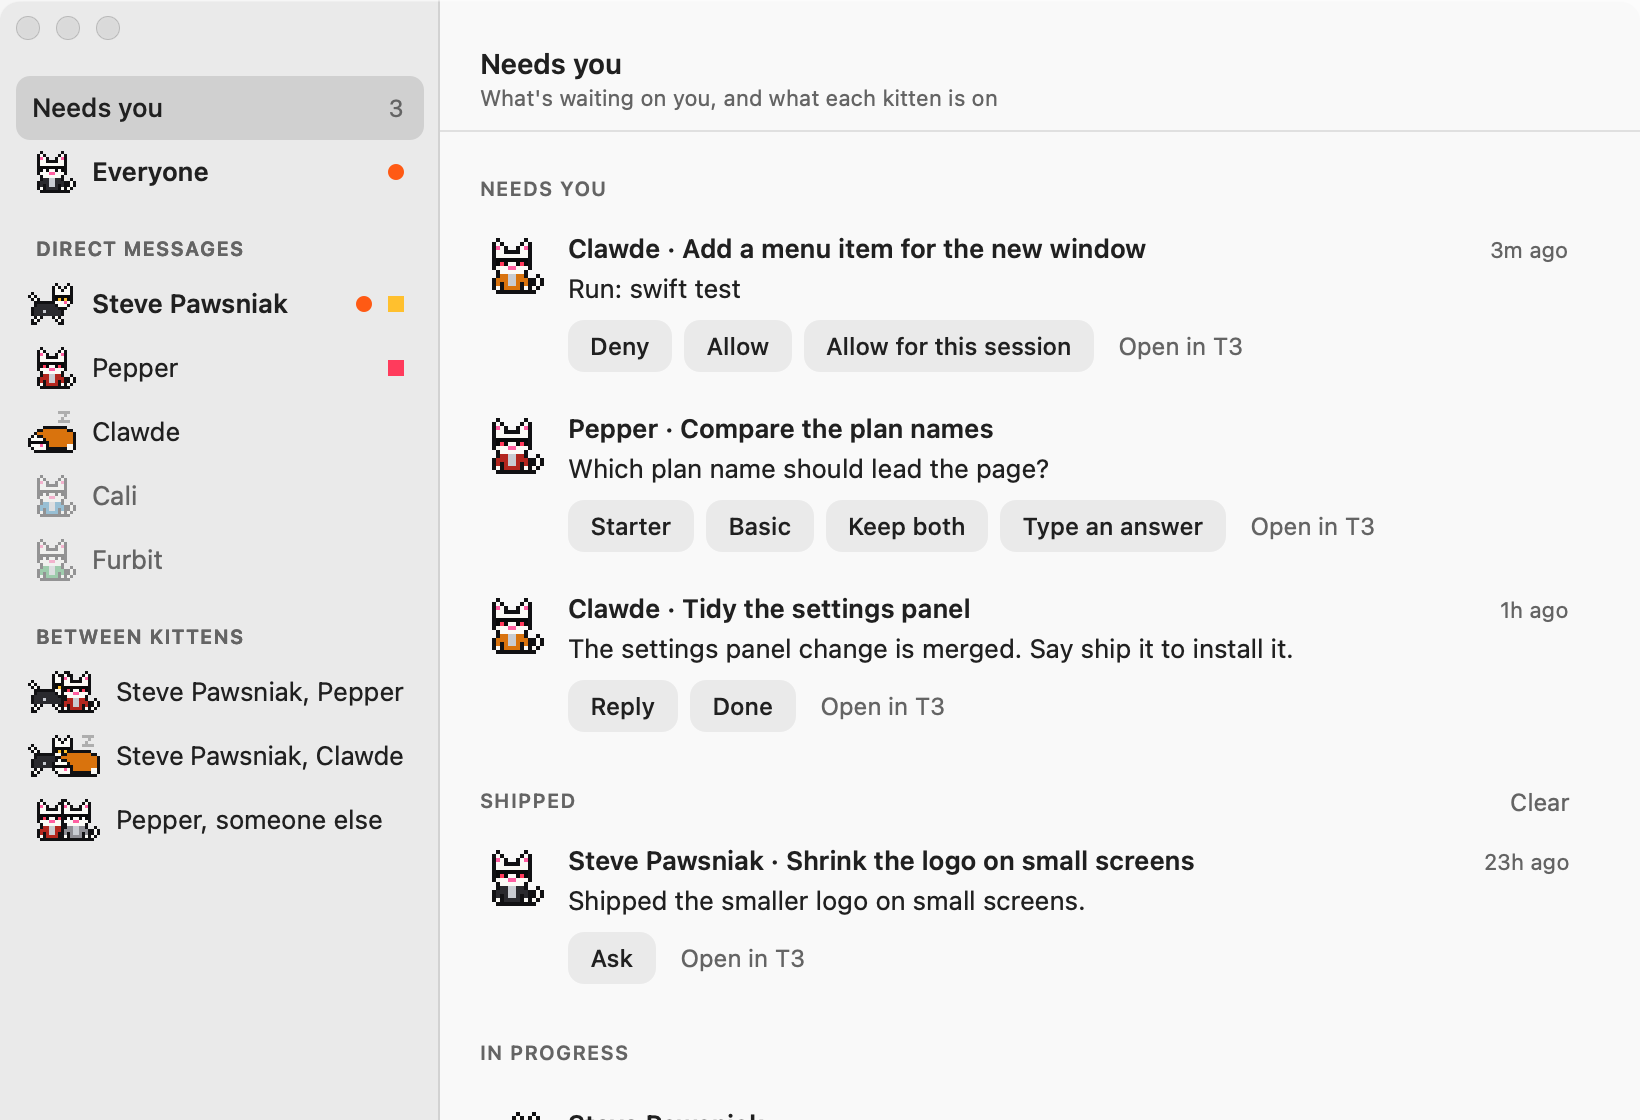
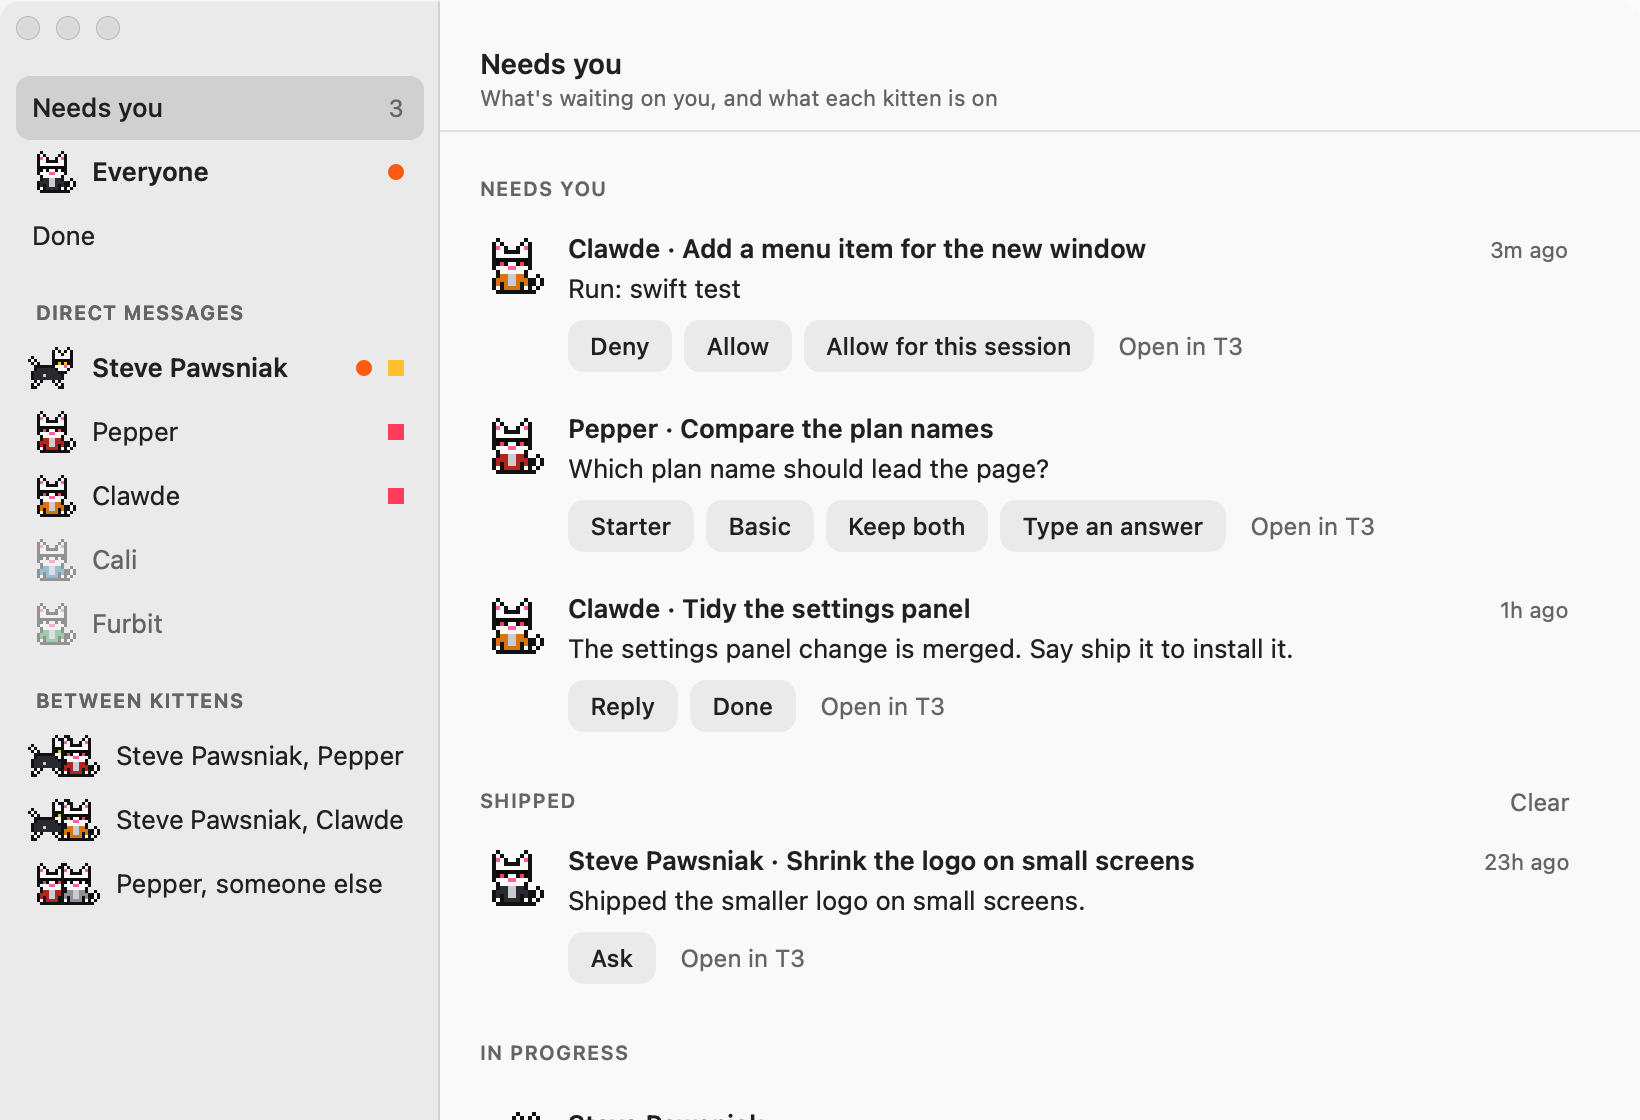
Move finished threads out of Needs you into a Done list you open when you want

diff --git a/Tests/ShadesTests/ChannelRowsTests.swift b/Tests/ShadesTests/ChannelRowsTests.swift
@@ -139,7 +139,7 @@ final class ChannelRowsTests: XCTestCase {
     }
 
     func testWhatEachKittenIsOnSitsUnderWhatNeedsYou() {
-        let built = book(threads: [thread("a", status: .running), thread("b")])
+        let built = book(threads: [thread("a", status: .running), thread("b", status: .failed)])
         let rows = ChannelRows.rows(.needsYou, in: built)
         XCTAssertEqual(Array(rows.prefix(2)), [.note("Nothing needs you."), .section("In progress", clearing: nil)])
         let progress = Array(rows.dropFirst(2))
@@ -154,7 +154,7 @@ final class ChannelRowsTests: XCTestCase {
 
     func testNeedsYouWhileReadingWithNothingYetSaysReading() {
         XCTAssertEqual(ChannelRows.rows(.needsYou, in: book(isReading: true)).last, .note("Reading their messages..."))
-        let known = ChannelRows.rows(.needsYou, in: book(threads: [thread("a")], isReading: true))
+        let known = ChannelRows.rows(.needsYou, in: book(threads: [thread("a", status: .running)], isReading: true))
         XCTAssertFalse(known.contains(.note("Reading their messages...")), "threads are known before any words are")
     }
 
@@ -166,6 +166,29 @@ final class ChannelRowsTests: XCTestCase {
 
     func testNeedsYouLeadsWithAnyTrouble() {
         XCTAssertEqual(ChannelRows.rows(.needsYou, in: book(threads: [thread("a")], cantReachT3: true)).first, .note("I can't reach T3 Code. Open it and I'll catch up."))
+    }
+
+    private func issueIDs(_ rows: [ChannelRow]) -> [String] {
+        rows.compactMap {
+            if case .issue(let thread) = $0 { return thread.id }
+            return nil
+        }
+    }
+
+    func testAFinishedThreadLeavesNeedsYouForDone() {
+        let built = book(threads: [thread("working", status: .running), thread("finished")])
+        XCTAssertEqual(issueIDs(ChannelRows.rows(.needsYou, in: built)), ["working"])
+        let done = ChannelRows.rows(.done, in: built)
+        XCTAssertEqual(issueIDs(done), ["finished"])
+        guard case .heading(let status) = done.first else { return XCTFail("\(done)") }
+        XCTAssertEqual(status.kitten, steve)
+        XCTAssertEqual(done.count, 2, "a kitten with nothing finished isn't listed")
+    }
+
+    func testDoneWithNothingInItSaysWhy() {
+        XCTAssertEqual(ChannelRows.rows(.done, in: book(threads: [thread("a", status: .running)])), [.note("Nothing's finished yet.")])
+        XCTAssertEqual(ChannelRows.rows(.done, in: book(isReading: true)), [.note("Reading their messages...")])
+        XCTAssertEqual(ChannelRows.rows(.done, in: book(threads: [thread("a")], cantReachT3: true)).first, .note("I can't reach T3 Code. Open it and I'll catch up."))
     }
 
     // MARK: - Messages
@@ -185,6 +208,7 @@ final class ChannelRowsTests: XCTestCase {
         let built = book(threads: [thread("a")], transcripts: ["a": [exchange("e")]])
         XCTAssertEqual(MessageTarget.standard(for: .channel(.everyone), in: built), .router)
         XCTAssertNil(MessageTarget.standard(for: .needsYou, in: built))
+        XCTAssertNil(MessageTarget.standard(for: .done, in: built))
         XCTAssertNil(MessageTarget.standard(for: .channel(.direct(cali)), in: built), "a kitten that isn't set up takes nothing")
         XCTAssertNil(MessageTarget.standard(for: .channel(ChannelID(.kitten(steve.id), .kitten(pepper.id))!), in: built), "what kittens say to each other is only read")
     }

diff --git a/Sources/Shades/App/ChannelBook.swift b/Sources/Shades/App/ChannelBook.swift
@@ -83,6 +83,8 @@ struct KittenIssues: Equatable {
     var kitten: Kitten
     /// Their titles are without the owner's "Name:" prefix.
     var threads: [AgentThread]
+    /// Every other thread of theirs, newest first, for when you go looking.
+    var done: [AgentThread] = []
 }
 
 /// Everything the Channels window shows, worked out from scratch each time, so nothing gets synced or merged.
@@ -188,8 +190,10 @@ struct ChannelBook: Equatable {
             .map { channel($0.key, $0.value) }
             .sorted { (latest($0), latestID($0)) > (latest($1), latestID($1)) }
         let issues = statuses.compactMap { status -> KittenIssues? in
-            let open = openThreads(of: status.kitten, among: kittens, in: threads)
-            return status.state == .notSetUp && open.isEmpty ? nil : KittenIssues(kitten: status.kitten, threads: open)
+            let mine = owned(by: status.kitten, among: kittens, in: threads)
+            let open = mine.filter(isOpen).sorted { (urgency($0), $1.updatedAt, $0.id) < (urgency($1), $0.updatedAt, $1.id) }
+            let done = mine.filter { !isOpen($0) }.sorted { ($1.updatedAt, $0.id) < ($0.updatedAt, $1.id) }
+            return status.state == .notSetUp && open.isEmpty ? nil : KittenIssues(kitten: status.kitten, threads: open, done: done)
         }
         var waiting = waiting
         for entry in waiting.reports {
@@ -298,17 +302,20 @@ struct ChannelBook: Equatable {
     private static func latest(_ channel: Channel) -> Date { channel.messages.last?.at ?? .distantPast }
     private static func latestID(_ channel: Channel) -> String { channel.messages.last?.id ?? "" }
 
-    /// Today an issue is an open thread. A finished one that isn't settled stays, because
-    /// that's a pull request waiting on "ship it". What needs you comes first, then what's working.
-    private static func openThreads(of kitten: Kitten, among kittens: [Kitten], in threads: [AgentThread]) -> [AgentThread] {
+    private static func owned(by kitten: Kitten, among kittens: [Kitten], in threads: [AgentThread]) -> [AgentThread] {
         threads
-            .filter { KittenBoard.owner(of: $0, among: kittens) == kitten && (!$0.isSettled || $0.status.isActive) }
+            .filter { KittenBoard.owner(of: $0, among: kittens) == kitten }
             .map { thread in
                 var thread = thread
                 thread.title = title(of: thread, owner: kitten)
                 return thread
             }
-            .sorted { (urgency($0), $1.updatedAt, $0.id) < (urgency($1), $0.updatedAt, $1.id) }
+    }
+
+    /// Today an issue is an open thread: still going, or stopped short of done and not settled yet. One that
+    /// finished goes to Done, the way a settled one does in T3, so it doesn't sit there for you to keep looking at.
+    private static func isOpen(_ thread: AgentThread) -> Bool {
+        thread.status.isActive || KittenBoard.needsYou(thread) || (!thread.isSettled && thread.status != .completed)
     }
 
     private static func urgency(_ thread: AgentThread) -> Int {

diff --git a/Tests/ShadesTests/ChannelBookTests.swift b/Tests/ShadesTests/ChannelBookTests.swift
@@ -263,14 +263,18 @@ final class ChannelBookTests: XCTestCase {
         XCTAssertNil(KittenBoard.owner(of: thread("t", project: "site"), among: [pepper, steve]))
     }
 
-    func testAnIssueIsAnOpenThread() throws {
+    func testAnIssueIsAnOpenThreadAndAFinishedOneIsDoneWhetherOrNotItsSettled() throws {
         let built = book(kittens: [steve], threads: [
-            thread("done-unsettled", status: .completed),
-            thread("done-settled", status: .completed, settled: true),
+            thread("done-unsettled", status: .completed, age: 1),
+            thread("done-settled", status: .completed, settled: true, age: 2),
+            thread("failed-unsettled", status: .failed),
+            thread("failed-settled", status: .failed, settled: true, age: 3),
             thread("working-settled", status: .running, settled: true),
             thread("someone-elses", project: "site", status: .running),
         ])
-        XCTAssertEqual(Set(try XCTUnwrap(built.issues.first).threads.map(\.id)), ["done-unsettled", "working-settled"])
+        let steves = try XCTUnwrap(built.issues.first)
+        XCTAssertEqual(Set(steves.threads.map(\.id)), ["failed-unsettled", "working-settled"])
+        XCTAssertEqual(steves.done.map(\.id), ["done-unsettled", "done-settled", "failed-settled"], "newest first")
         XCTAssertEqual(built.issueCount, 2)
     }
 
@@ -278,17 +282,17 @@ final class ChannelBookTests: XCTestCase {
         var approving = thread("approving", status: .running, age: 40)
         approving.pendingApprovals = [ApprovalRequest(id: "r", threadID: "approving", threadTitle: "Work", kind: .command, summary: "x", createdAt: at)]
         let built = book(kittens: [steve], threads: [
-            thread("old-done", age: 30),
-            thread("new-done", age: 1),
+            thread("old-stopped", status: .interrupted, age: 30),
+            thread("new-stopped", status: .interrupted, age: 1),
             thread("working", status: .running, age: 20),
             thread("asking", status: .waitingForAnswer, age: 50),
             approving,
         ])
-        XCTAssertEqual(try XCTUnwrap(built.issues.first).threads.map(\.id), ["approving", "asking", "working", "new-done", "old-done"])
+        XCTAssertEqual(try XCTUnwrap(built.issues.first).threads.map(\.id), ["approving", "asking", "working", "new-stopped", "old-stopped"])
     }
 
     func testIssuesCoverEveryKittenThatsSetUpWithTheirNameTakenOff() throws {
-        let built = book(kittens: [steve, pepper, cali], threads: [thread("t", project: "site", title: "Steve: Fix the site")])
+        let built = book(kittens: [steve, pepper, cali], threads: [thread("t", project: "site", title: "Steve: Fix the site", status: .running)])
         XCTAssertEqual(built.issues.map(\.kitten), [steve, pepper])
         XCTAssertEqual(built.issues[0].threads.map(\.title), ["Fix the site"])
         XCTAssertEqual(built.issues[1].threads, [])

diff --git a/Tests/ShadesTests/ChannelsWindowTests.swift b/Tests/ShadesTests/ChannelsWindowTests.swift
@@ -80,6 +80,16 @@ final class ChannelsWindowTests: XCTestCase {
         XCTAssertTrue(row.accessibilityPerformPress())
     }
 
+    func testAFinishedThreadIsOnlyShownWhenYouOpenDone() throws {
+        let view = view()
+        view.show(book())
+        let issues = { view.pane.shown.compactMap { row -> String? in if case .issue(let thread) = row { thread.id } else { nil } } }
+        XCTAssertEqual(issues(), [])
+        try XCTUnwrap(view.sidebar.row(for: .done)).press()
+        XCTAssertEqual(view.selection, .done)
+        XCTAssertEqual(issues(), ["t"])
+    }
+
     func testAnEmptyBetweenSectionIsntDrawnAndAPairGetsARowOnceTheyTalk() throws {
         XCTAssertFalse(ChannelSidebarItem.groups(in: book()).contains { $0.heading == CatWords.betweenKittens })
 
@@ -242,7 +252,7 @@ final class ChannelsWindowTests: XCTestCase {
         )
         let line = DevFlags.checkLine(built, threadsRead: 7, milliseconds: 9)
         XCTAssertFalse(line.contains(secret))
-        for expected in ["threads read: 7", "unreadable: 1", "DMs with messages: 1", "between channels: 1", "messages: 4", "asked by you: 1", "asked by a kitten: 0", "asked by someone else: 1", "replies with no ask: 0", "issues: 1", "milliseconds: 9"] {
+        for expected in ["threads read: 7", "unreadable: 1", "DMs with messages: 1", "between channels: 1", "messages: 4", "asked by you: 1", "asked by a kitten: 0", "asked by someone else: 1", "replies with no ask: 0", "issues: 1", "done: 0", "milliseconds: 9"] {
             XCTAssertTrue(line.contains(expected), expected)
         }
     }

diff --git a/Sources/Shades/App/ChannelRows.swift b/Sources/Shades/App/ChannelRows.swift
@@ -3,6 +3,8 @@ import ShadesCore
 
 enum ChannelSelection: Hashable {
     case needsYou
+    /// What's finished, out of the way of what's still going.
+    case done
     case channel(ChannelID)
 }
 
@@ -77,6 +79,7 @@ enum ChannelRows {
     static func rows(_ selection: ChannelSelection, in book: ChannelBook) -> [ChannelRow] {
         switch selection {
         case .needsYou: return needsYou(in: book)
+        case .done: return done(in: book)
         case .channel(let id): return messages(in: id, of: book) + cards(in: id, of: book)
         }
     }
@@ -107,6 +110,15 @@ enum ChannelRows {
             let open: [ChannelRow] = issues.threads.isEmpty ? [.note(CatWords.nothingOpen)] : issues.threads.map(ChannelRow.issue)
             return [.heading(status)] + open
         }
+    }
+
+    private static func done(in book: ChannelBook) -> [ChannelRow] {
+        let rows = book.issues.flatMap { issues -> [ChannelRow] in
+            guard !issues.done.isEmpty, let status = book.status(of: .kitten(issues.kitten.id)) else { return [] }
+            return [.heading(status)] + issues.done.map(ChannelRow.issue)
+        }
+        if book.cantReachT3 { return [.note(CatWords.cantReachT3Yet)] + rows }
+        return rows.isEmpty ? [.note(book.isReading ? CatWords.readingMessages : CatWords.nothingDone)] : rows
     }
 
     /// A DM ends with whatever that kitten is waiting on you for, so it can be answered right there.

diff --git a/Sources/Shades/UI/ChannelPane.swift b/Sources/Shades/UI/ChannelPane.swift
@@ -20,6 +20,10 @@ final class ChannelHeader: QuietView {
             title = CatWords.needsYouTitle
             subtitle = CatWords.needsYouSubtitle
             cats = []
+        case .done:
+            title = CatWords.doneTitle
+            subtitle = CatWords.doneSubtitle
+            cats = []
         case .channel(.everyone):
             title = CatWords.everyone
             subtitle = CatWords.everyoneSubtitle
@@ -180,7 +184,7 @@ final class ChannelPane: QuietView {
         stack()
 
         if isNewSelection {
-            scrollOffset = selection == .needsYou ? 0 : bottomOffset
+            scrollOffset = if case .channel = selection { bottomOffset } else { 0 }
         } else if wasAtBottom {
             scrollToBottom()
         }
@@ -325,7 +329,8 @@ final class ChannelPane: QuietView {
         case .report(let entry):
             return card(for: entry, in: book)
         case .note(let text):
-            return NoteRowView(text: text, isCentered: selection != .needsYou || rows.count == 1)
+            let isConversation = if case .channel = selection { true } else { false }
+            return NoteRowView(text: text, isCentered: isConversation || rows.count == 1)
         }
     }
 

diff --git a/Sources/Shades/Demo/ChannelImages.swift b/Sources/Shades/Demo/ChannelImages.swift
@@ -64,7 +64,11 @@ enum ChannelImages {
 
     private static func shots() -> [Shot] {
         let full = book()
-        var shots = [Shot(name: "needs-you", selection: .needsYou, book: full), Shot(name: "everyone", selection: .channel(.everyone), book: full)]
+        var shots = [
+            Shot(name: "needs-you", selection: .needsYou, book: full),
+            Shot(name: "done", selection: .done, book: full),
+            Shot(name: "everyone", selection: .channel(.everyone), book: full),
+        ]
         for status in full.statuses {
             shots.append(Shot(name: "dm-\(slug(status.kitten.name))", selection: .channel(.direct(status.kitten)), book: full))
         }
@@ -87,6 +91,7 @@ enum ChannelImages {
             Shot(name: "unreadable", selection: steve, book: book(unreadable: 2)),
             Shot(name: "nothing-said", selection: steve, book: book(threads: [], transcripts: [:])),
             Shot(name: "nothing-open", selection: .needsYou, book: book(threads: [], transcripts: [:])),
+            Shot(name: "nothing-done", selection: .done, book: book(threads: [], transcripts: [:])),
         ]
         return shots
     }

diff --git a/Sources/Shades/UI/ChannelSidebar.swift b/Sources/Shades/UI/ChannelSidebar.swift
@@ -31,11 +31,12 @@ struct ChannelSidebarItem: Equatable {
         }
         let needsYou = ChannelSidebarItem(selection: .needsYou, title: CatWords.needsYouTitle, count: book.waiting.count)
         let everyone = ChannelSidebarItem(selection: .channel(.everyone), title: CatWords.everyone, cats: [.shades], isUnread: !book.unread.isEmpty)
-        return [(nil, [needsYou, everyone]), (CatWords.directMessages, directs)] + (between.isEmpty ? [] : [(CatWords.betweenKittens, between)])
+        let done = ChannelSidebarItem(selection: .done, title: CatWords.doneTitle)
+        return [(nil, [needsYou, everyone, done]), (CatWords.directMessages, directs)] + (between.isEmpty ? [] : [(CatWords.betweenKittens, between)])
     }
 }
 
-/// The left side of the window: Needs you and Everyone, then a row for each kitten, then each pair that's talked.
+/// The left side of the window: Needs you, Everyone and Done, then a row for each kitten, then each pair that's talked.
 final class ChannelSidebar: QuietView {
     static let width: CGFloat = 220
     /// Leaves room for the window's buttons.

diff --git a/Sources/Shades/Demo/DemoChannels.swift b/Sources/Shades/Demo/DemoChannels.swift
@@ -37,7 +37,7 @@ enum DemoChannels {
         pepperAsksSteve,
         thread("demo-steve-copy", "Steve Pawsniak: Rewrite the pricing copy", project: "site", settled: false, minutes: 12, pullRequest: ThreadPullRequest(number: 12, state: "open")),
         thread("demo-steve-yesterday", "Shrink the logo on small screens", project: "Steve Pawsniak", minutes: 1_500, pullRequest: ThreadPullRequest(number: 9, state: "merged")),
-        thread("demo-clawde-menu", "Clawde: Add a menu item for the new window", project: "site", settled: false, minutes: 8),
+        thread("demo-clawde-menu", "Clawde: Add a menu item for the new window", project: "site", status: .waitingForApproval, settled: false, minutes: 8),
         thread("demo-clawde-failed", "Clawde: Redraw the app icon", project: "Clawde", status: .failed, settled: false, minutes: 130),
         thread("demo-pepper-unknown", "Sum up the plan comparison", project: "Pepper", minutes: 300),
     ]

diff --git a/Sources/Shades/App/CatWords.swift b/Sources/Shades/App/CatWords.swift
@@ -60,6 +60,9 @@ enum CatWords {
     static let needsYouSubtitle = "What's waiting on you, and what each kitten is on"
     static let nothingNeedsYou = "Nothing needs you."
     static let inProgress = "In progress"
+    static let doneTitle = "Done"
+    static let doneSubtitle = "What each kitten has finished"
+    static let nothingDone = "Nothing's finished yet."
     static let everyone = "Everyone"
     static let everyoneSubtitle = "Goes to whoever it's for"
     static let everyoneEmpty = "Say something and it goes to whoever it's for."

diff --git a/Tests/ShadesTests/ChannelFeedTests.swift b/Tests/ShadesTests/ChannelFeedTests.swift
@@ -165,7 +165,7 @@ final class ChannelFeedTests: XCTestCase {
 
     func testOpeningReturnsAtOnceAndStillReading() {
         backend.holdsReads = true
-        let book = feed.open(threads: [thread("a")])
+        let book = feed.open(threads: [thread("a", status: .running)])
         XCTAssertTrue(book.isReading)
         XCTAssertEqual(book.directs.map(\.messages), [[]])
         XCTAssertEqual(book.issues.first?.threads.map(\.id), ["a"], "what's open is known before any words are")

diff --git a/Sources/Shades/App/DevFlags.swift b/Sources/Shades/App/DevFlags.swift
@@ -91,6 +91,7 @@ enum DevFlags {
             "asked by someone else: \(asked { $0 == .someoneElse })",
             "replies with no ask: \(unasked.count)",
             "issues: \(book.issueCount)",
+            "done: \(book.issues.reduce(0) { $0 + $1.done.count })",
             "milliseconds: \(milliseconds)",
         ].joined(separator: "\n")
     }
